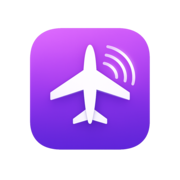
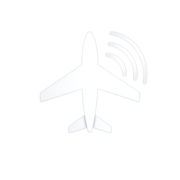
feat: update branding assets and enhance settings functionality
- Added new logo image (logopagina.png) to improve brand representation in the app sidebar.
- Updated apple-icon.png and icon.png for a cohesive visual identity.
- Removed outdated favicon.ico to streamline branding.
- Enhanced theme switching functionality in SettingsPage by integrating API calls to save user preferences.

This commit refreshes the application's branding and improves user experience through better theme management.

diff --git a/src/app/settings/page.tsx b/src/app/settings/page.tsx
@@ -5,6 +5,7 @@ import { Card, CardContent, CardDescription, CardHeader, CardTitle } from "@/com
 import { Button } from "@/components/ui/button";
 import { Check } from "lucide-react";
 import { useTheme } from "next-themes";
+import { api } from "@/lib/api";
 import {
   PALETTES,
   usePalette,
@@ -13,6 +14,11 @@ import { cn } from "@/lib/utils";
 
 export default function SettingsPage() {
   const { theme, setTheme } = useTheme();
+
+  function handleSetTheme(t: string) {
+    setTheme(t);
+    api.updatePreferences({ theme: t }).catch(() => {});
+  }
   const { palette, setPalette } = usePalette();
 
   return (
@@ -38,7 +44,7 @@ export default function SettingsPage() {
               <Button
                 key={mode}
                 variant={theme === mode ? "default" : "outline"}
-                onClick={() => setTheme(mode)}
+                onClick={() => handleSetTheme(mode)}
                 className="capitalize"
               >
                 {mode === "system" ? "Sistema" : mode === "dark" ? "Oscuro" : "Claro"}

diff --git a/src/components/app-sidebar.tsx b/src/components/app-sidebar.tsx
@@ -1,6 +1,5 @@
 "use client";
 
-import Image from "next/image";
 import Link from "next/link";
 import { usePathname } from "next/navigation";
 import {
@@ -51,7 +50,8 @@ export function AppSidebar() {
       <SidebarHeader>
         <div className="flex items-center gap-2 px-2 py-2">
           <div className="flex size-8 items-center justify-center rounded-md overflow-hidden">
-            <Image src="/logo.png" alt="OnTimeAI" width={32} height={32} className="size-8 object-cover" />
+            {/* eslint-disable-next-line @next/next/no-img-element */}
+            <img src="/logopagina.png" alt="OnTimeAI" className="size-8 object-cover" />
           </div>
           <div className="group-data-[collapsible=icon]:hidden">
             <div className="text-sm font-semibold tracking-tight">

diff --git a/src/app/layout.tsx b/src/app/layout.tsx
@@ -21,6 +21,10 @@ export const metadata: Metadata = {
   title: "OnTimeAI — Predicción de retrasos aéreos",
   description:
     "Dashboard predictivo de retrasos de vuelos en ATL basado en Machine Learning.",
+  icons: {
+    icon: [{ url: "/icon.png", sizes: "512x512", type: "image/png" }],
+    apple: [{ url: "/apple-icon.png", sizes: "180x180", type: "image/png" }],
+  },
 };
 
 export default function RootLayout({
